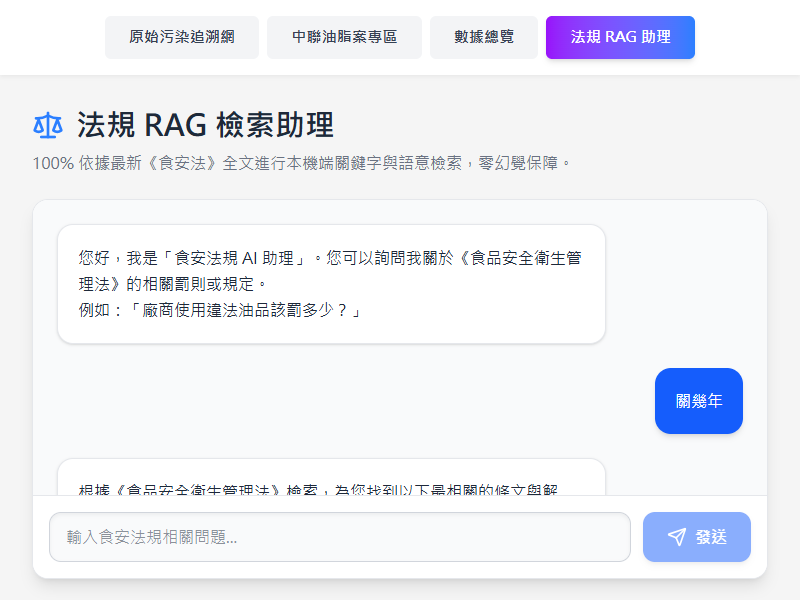
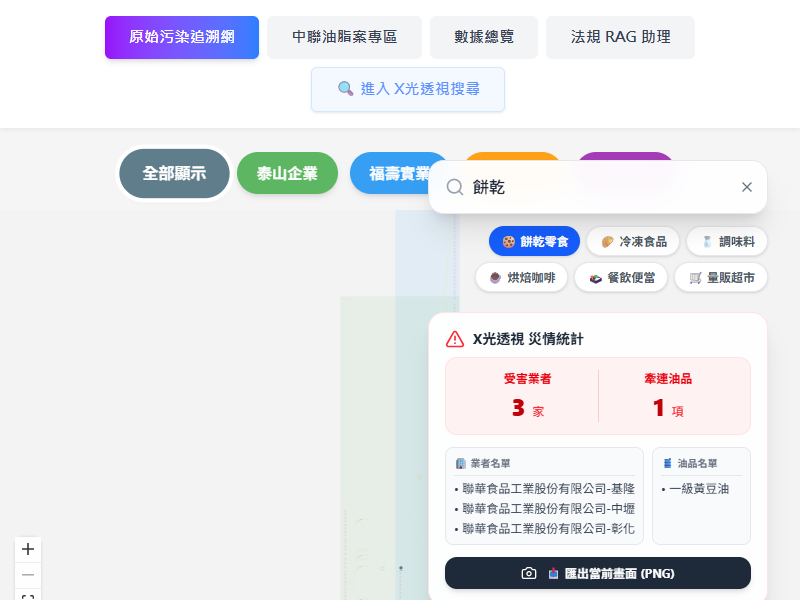
feat: integrate downstream end products into analysis data and display in dashboard

diff --git a/src/components/NetworkGraph.tsx b/src/components/NetworkGraph.tsx
@@ -61,7 +61,9 @@ function Flow() {
             brandLabel: brandLabel,
             name: b.name,
             tags: b.tags ? b.tags.join(' ') : '',
-            product: p.name
+            product: p.name,
+            endProductsRaw: b.endProducts || [],
+            endProducts: b.endProducts ? b.endProducts.join(' ') : ''
           });
         });
       });
@@ -71,22 +73,27 @@ function Flow() {
 
   const searchStats = useMemo(() => {
     if (!searchQuery.trim()) return null;
-    const fuse = new Fuse(searchIndex, { keys: ['name', 'tags', 'product', 'brandLabel'], threshold: 0.4, ignoreLocation: true });
+    const fuse = new Fuse(searchIndex, { keys: ['name', 'tags', 'product', 'brandLabel', 'endProducts'], threshold: 0.4, ignoreLocation: true });
     const results = fuse.search(searchQuery);
     
     const bizNames = new Set<string>();
     const prodNames = new Set<string>();
+    const endProductNames = new Set<string>();
     
     results.forEach(r => {
       bizNames.add(r.item.name);
       prodNames.add(r.item.product);
+      if (r.item.endProductsRaw && r.item.endProductsRaw.length > 0) {
+        r.item.endProductsRaw.forEach((ep: string) => endProductNames.add(ep));
+      }
     });
     
     return { 
       bizCount: bizNames.size, 
       prodCount: prodNames.size,
       bizNames: Array.from(bizNames),
-      prodNames: Array.from(prodNames)
+      prodNames: Array.from(prodNames),
+      endProductNames: Array.from(endProductNames)
     };
   }, [searchQuery, searchIndex]);
 
@@ -436,6 +443,19 @@ function Flow() {
                     ))}
                   </ul>
                 </div>
+              </div>
+            )}
+
+            {searchStats.endProductNames && searchStats.endProductNames.length > 0 && (
+              <div className="mt-2 bg-red-50 rounded-lg p-2 border border-red-200">
+                <div className="text-[11px] text-red-600 font-bold mb-1 border-b border-red-200 pb-1 flex items-center gap-1">
+                  <span>🛒</span> 警示終端消費品
+                </div>
+                <ul className="max-h-32 overflow-y-auto custom-scrollbar text-xs font-bold text-red-700 space-y-1.5 mt-1.5">
+                  {searchStats.endProductNames.map((name, idx) => (
+                    <li key={idx} className="break-words leading-tight">• {name}</li>
+                  ))}
+                </ul>
               </div>
             )}
 